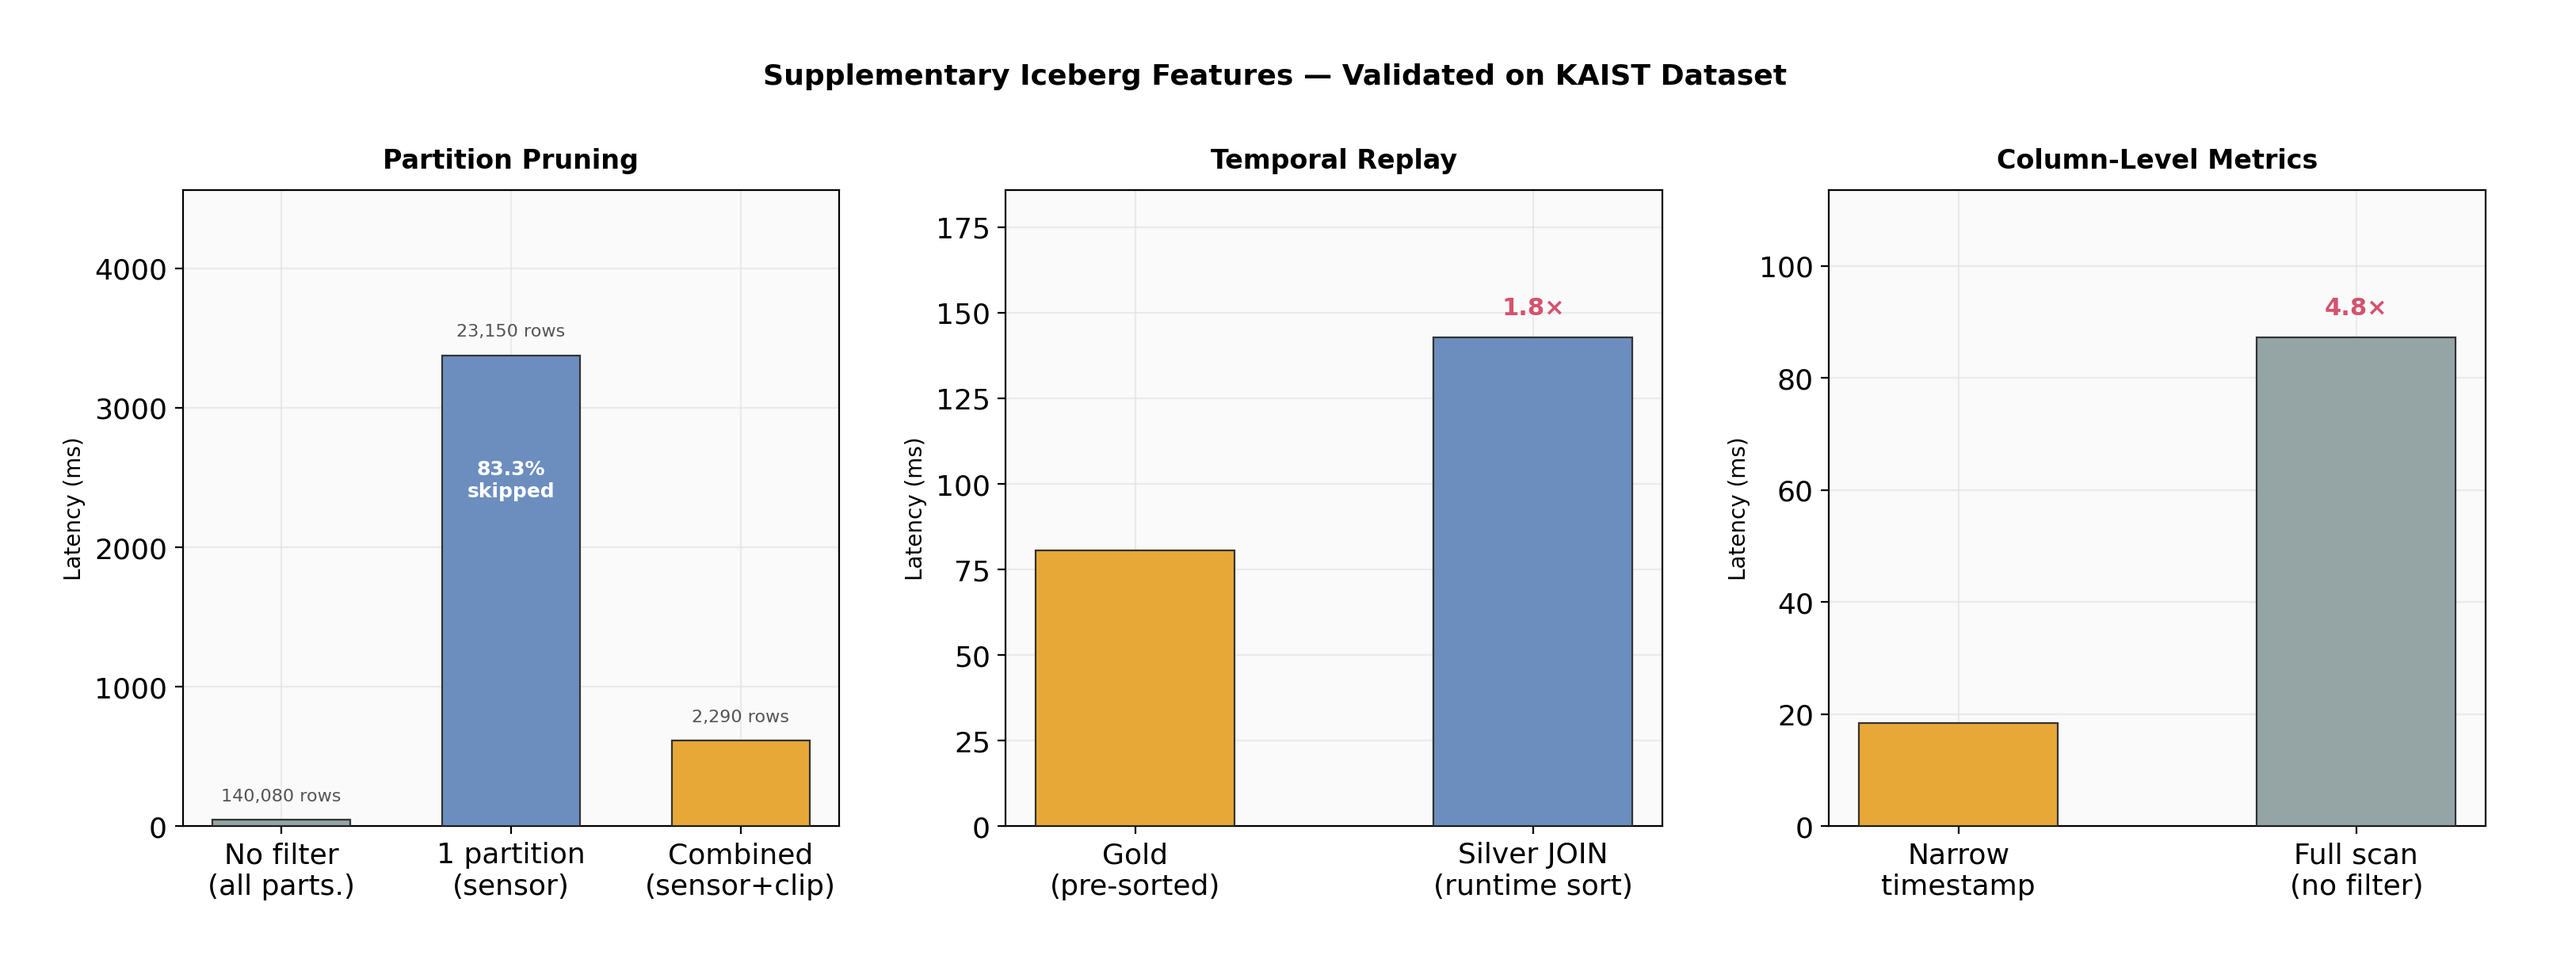
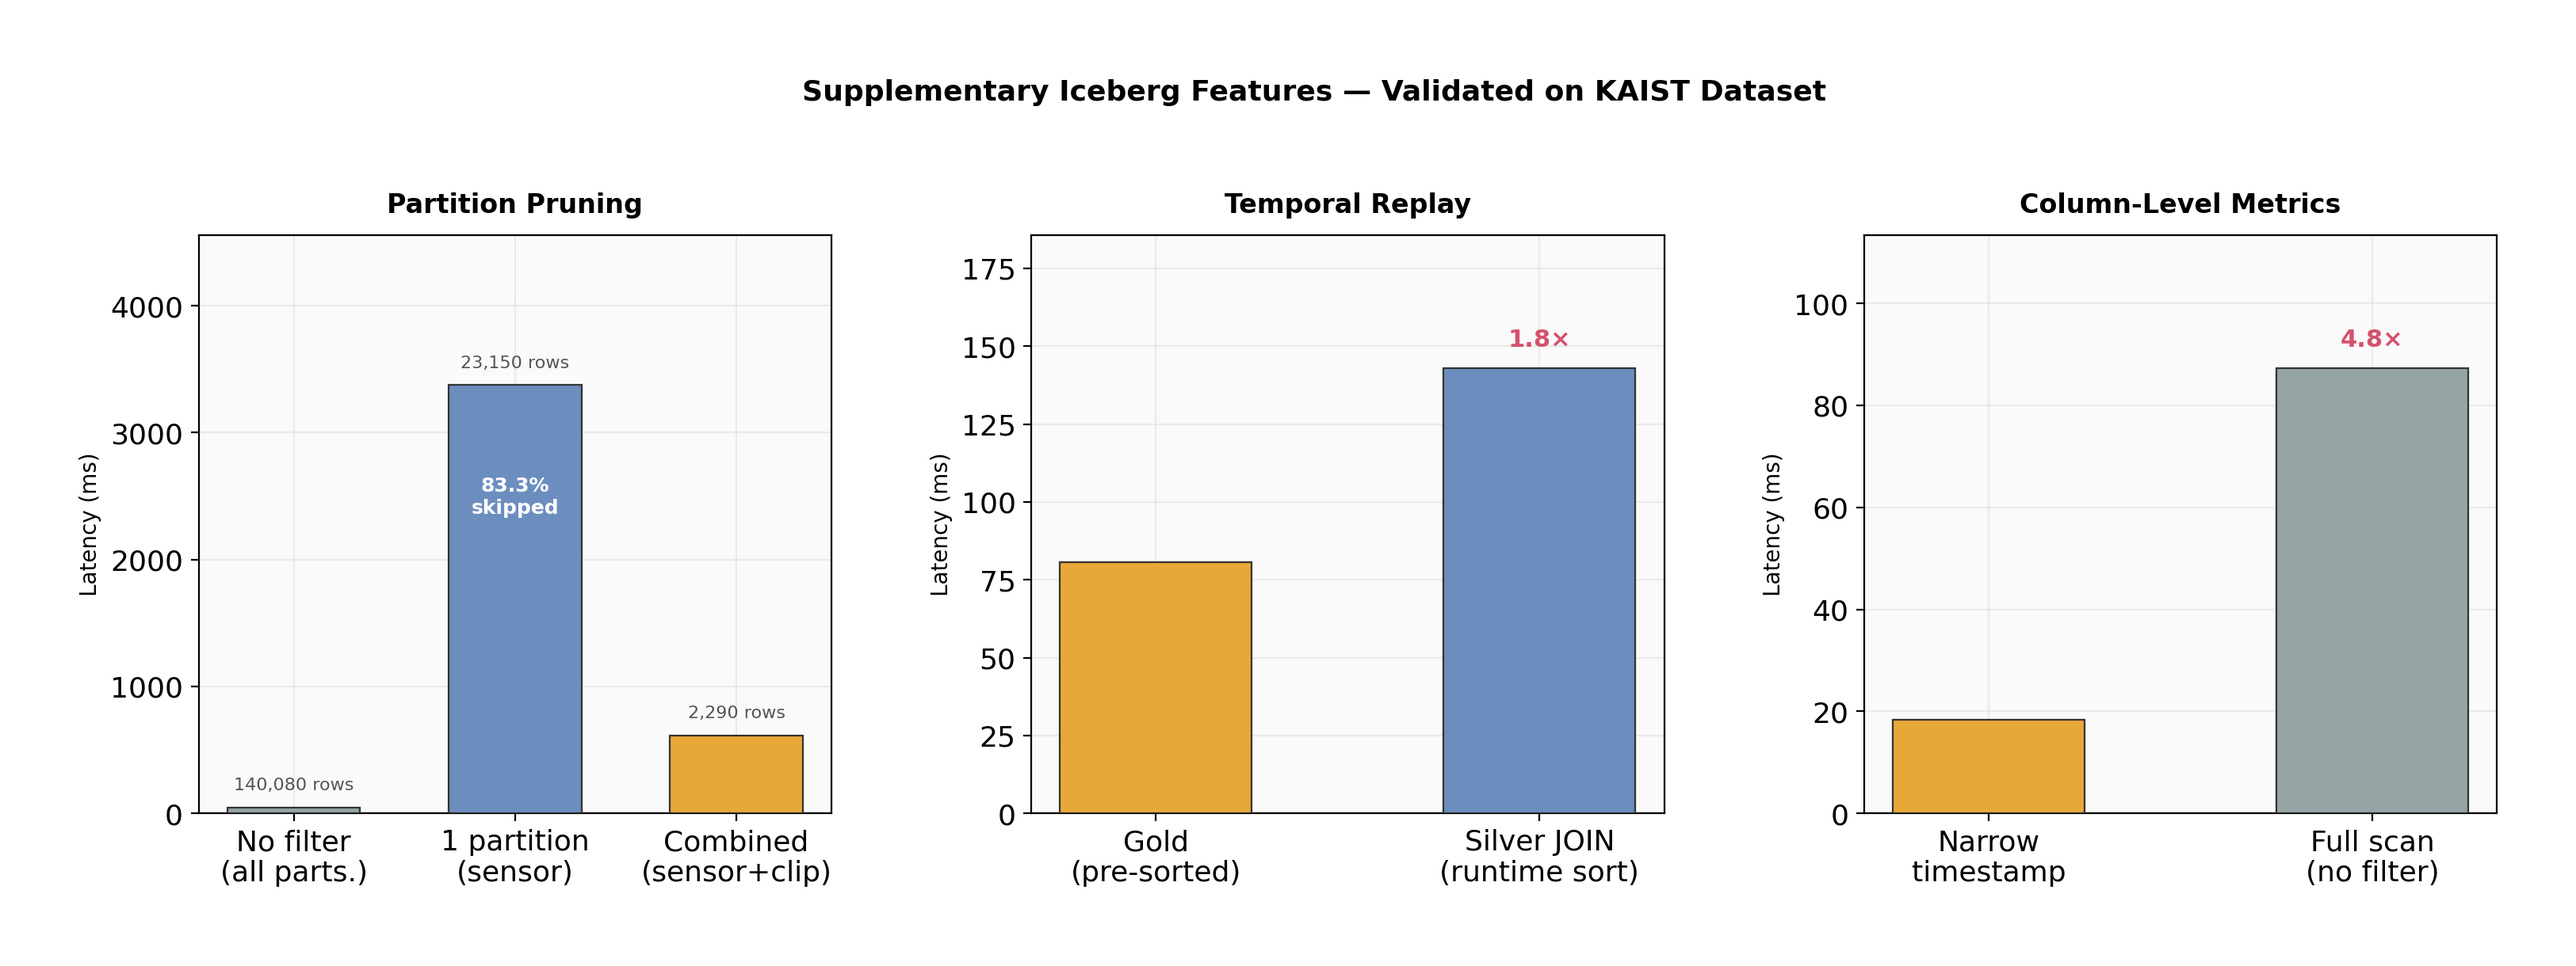
Adjust figure layout and padding for supplementary benchmarks image

diff --git a/Lakehouse/Iceberg/paper/generate_figures.py b/Lakehouse/Iceberg/paper/generate_figures.py
@@ -545,9 +545,10 @@ def fig6_supplementary():
     ax.annotate("4.8\u00d7", xy=(1, vals_m[1]), xytext=(0, 10), textcoords="offset points",
                 ha="center", fontsize=11, fontweight="bold", color=C_PYTHON)
 
-    fig.tight_layout(pad=2.0)
+    fig.tight_layout(pad=3.0)
+    fig.subplots_adjust(left=0.06)
     fig.suptitle("Supplementary Iceberg Features — Validated on KAIST Dataset", fontsize=13, fontweight="bold", y=1.03)
-    fig.savefig(OUT / "supplementary_benchmarks.png", dpi=200, bbox_inches="tight", pad_inches=0.4)
+    fig.savefig(OUT / "supplementary_benchmarks.png", dpi=200, bbox_inches="tight", pad_inches=0.5)
     plt.close(fig)
     print(f"  ✓ {OUT / 'supplementary_benchmarks.png'}")
 
